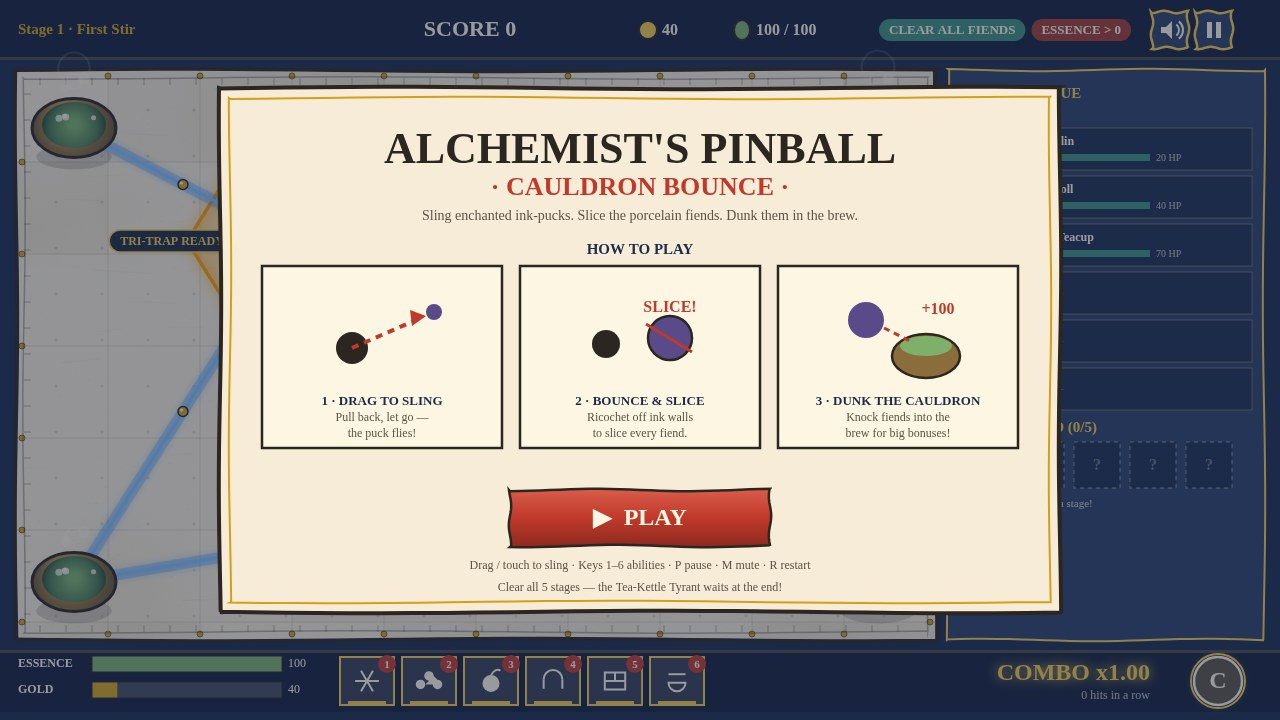
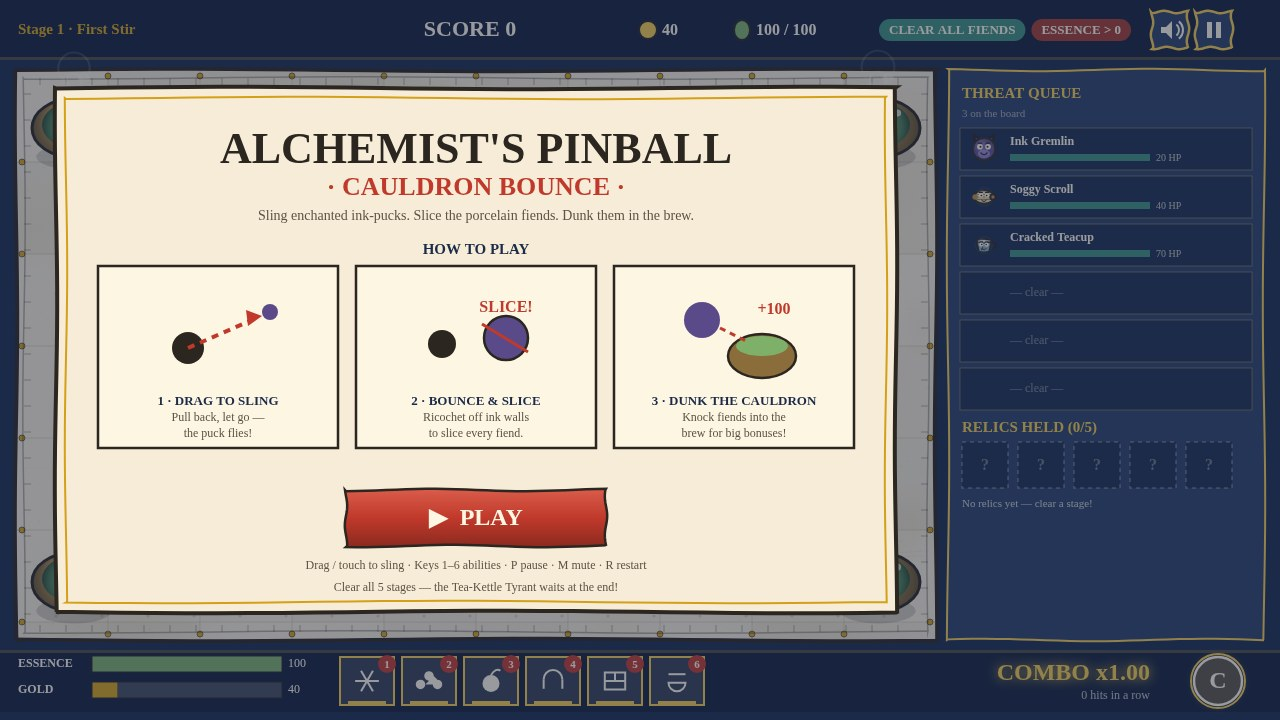
Final micro-fix: badges render last (z-index) + modals constrained to board region
- zones.js: new drawBadges() draws all six dark-navy pill badges
  (3X BOUNCE!, SPLASH -42!, BOIL OVER!, TRI-TRAP READY!, 3X RICOCHET,
  95% TAUT) after enemies, pucks, particles, flashes, floaters and
  callouts, so no sprite can ever overlap or clip badge text.
  drawZones/drawWeb no longer draw badges (positions unchanged).
- render.js: new modalBox() centers Title/Draft/Victory/Defeat modals
  on the board region only (cx=476) and caps width so every edge stays
  inside the board with a 24px margin — no modal overlaps the sidebar
  anymore (title right edge 896 vs sidebar at 948).
- Re-captured all 4 screenshots; full Playwright play-through passed
  with zero console/page errors and zero external requests.

Changed region(s): [[0.0312, 0.0917, 0.8438, 0.8556], [0.4375, 0.3361, 0.5312, 0.3972]]

diff --git a/game/src/render.js b/game/src/render.js
@@ -5,7 +5,7 @@
 import { BOARD, BOTTOM, COLORS, HOTBAR, SIDE, TOP, VIEW } from './config.js';
 import { drawEnemy, drawPortrait } from './enemies.js';
 import { drawRelicIcon } from './relics.js';
-import { drawCallouts, drawCauldrons, drawDecals, drawFlashes, drawFloaters, drawParticles, drawWalls, drawWeb, drawZones } from './zones.js';
+import { drawBadges, drawCallouts, drawCauldrons, drawDecals, drawFlashes, drawFloaters, drawParticles, drawWalls, drawWeb, drawZones } from './zones.js';
 import { drawPuck } from './puck.js';
 
 let parchmentCache = null;
@@ -370,6 +370,9 @@ function drawBoard(ctx, S) {
   drawFlashes(ctx, S.flashes);
   drawFloaters(ctx, S.floaters);
   drawCallouts(ctx, S.callouts);
+  // Pill badges LAST among board-layer elements: after enemies, pucks,
+  // particles, flashes, floaters and callouts, so no sprite ever clips a badge.
+  drawBadges(ctx, S);
   // Banner instruction bar: a real in-game UI strip along the bottom of the board.
   if (S.screen === 'play') {
     const bw = 720;
@@ -742,12 +745,25 @@ function dimBoard(ctx) {
   ctx.fillRect(0, 0, VIEW.w, VIEW.h);
 }
 
+// Modal geometry: every modal overlay is centered on the BOARD region only
+// (never the viewport) and its width is capped so both edges stay inside the
+// board with a 24px margin — its right edge never reaches the sidebar's left
+// edge (SIDE.x). Returns { cx, x, w } for a requested width; widths that
+// already fit are kept unchanged.
+function modalBox(w) {
+  const cx = BOARD.x + BOARD.w / 2;
+  const maxW = BOARD.w - 2 * 24;
+  const mw = Math.min(w, maxW);
+  return { cx, x: cx - mw / 2, w: mw };
+}
+
 function drawTitle(ctx, S) {
   dimBoard(ctx);
-  // Centered on the VIEWPORT (not the board) with a guaranteed side margin,
-  // and every title line is fit-measured so nothing can ever clip an edge.
-  const cx = VIEW.w / 2;
-  const card = { x: cx - 420, y: 88, w: 840, h: 524 };
+  // Centered on the BOARD region (never the viewport) with a guaranteed side
+  // margin, and every title line is fit-measured so nothing can ever clip an
+  // edge or overlap the sidebar.
+  const { cx, x: cardX, w: cardW } = modalBox(840);
+  const card = { x: cardX, y: 88, w: cardW, h: 524 };
   ctx.fillStyle = COLORS.parchment;
   wobblyRect(ctx, card.x, card.y, card.w, card.h, 8, 9.1);
   ctx.fill();
@@ -889,11 +905,12 @@ function drawComicPanel(ctx, i, cx, cy) {
 
 function drawDraft(ctx, S) {
   dimBoard(ctx);
-  // Centered on the VIEWPORT with fit-measured titles: nothing clips an edge.
-  const cx = VIEW.w / 2;
+  // Centered on the BOARD region with fit-measured titles: nothing clips an
+  // edge or overlaps the sidebar. All 3 cards + Reroll fit inside the board.
+  const cx = BOARD.x + BOARD.w / 2;
   ctx.textAlign = 'center';
   ctx.fillStyle = '#fdf6e3';
-  ctx.font = fitFont(ctx, 'CHOOSE A RELIC — PICK 1 OF 3', VIEW.w - 96, 30, true);
+  ctx.font = fitFont(ctx, 'CHOOSE A RELIC — PICK 1 OF 3', BOARD.w - 48, 30, true);
   ctx.fillText('CHOOSE A RELIC — PICK 1 OF 3', cx, 128);
   ctx.fillStyle = '#f2c94c';
   ctx.font = font(15, false);
@@ -995,8 +1012,8 @@ function wrapText(ctx, text, cx, y, maxW, lh) {
 
 function drawVictory(ctx, S) {
   dimBoard(ctx);
-  const cx = VIEW.w / 2;
-  const card = { x: cx - 360, y: 96, w: 720, h: 520 };
+  const { cx, x: cardX, w: cardW } = modalBox(720);
+  const card = { x: cardX, y: 96, w: cardW, h: 520 };
   ctx.fillStyle = COLORS.parchment;
   wobblyRect(ctx, card.x, card.y, card.w, card.h, 8, 6.6);
   ctx.fill();
@@ -1057,8 +1074,8 @@ function drawVictory(ctx, S) {
 
 function drawDefeat(ctx, S) {
   dimBoard(ctx);
-  const cx = VIEW.w / 2;
-  const card = { x: cx - 330, y: 150, w: 660, h: 380 };
+  const { cx, x: cardX, w: cardW } = modalBox(660);
+  const card = { x: cardX, y: 150, w: cardW, h: 380 };
   ctx.fillStyle = COLORS.parchment;
   wobblyRect(ctx, card.x, card.y, card.w, card.h, 8, 3.3);
   ctx.fill();

diff --git a/game/src/zones.js b/game/src/zones.js
@@ -130,19 +130,44 @@ export function drawZones(ctx, S) {
     ctx.stroke();
     ctx.restore();
     for (const v of verts) rivet(ctx, v.x, v.y);
-    // Zone label as a pill badge above the polygon, pushed clear of the boss.
-    const lp = badgeSpot(cx, cy - z.r - 16, S.boss ? { x: S.boss.x, y: S.boss.y, r: S.boss.r + 52 } : null);
+  }
+}
+
+// Pill badges, drawn LAST among board-layer elements — after enemies, pucks,
+// particles, flashes, floaters and callouts — so no sprite or effect can ever
+// overlap or clip a badge's text. Positions are identical to before; only the
+// draw order changed. Called from render.js drawBoard, never from drawZones
+// or drawWeb.
+export function drawBadges(ctx, S) {
+  const avoid = S.boss ? { x: S.boss.x, y: S.boss.y, r: S.boss.r + 52 } : null;
+  // Zone labels above each polygon (e.g. '3X BOUNCE!' on the amber zone).
+  for (let zi = 0; zi < ZONES.length; zi++) {
+    const z = ZONES[zi];
+    const cx = BOARD.x + z.cx * BOARD.w;
+    const cy = BOARD.y + z.cy * BOARD.h;
+    const lp = badgeSpot(cx, cy - z.r - 16, avoid);
     pillBadge(ctx, lp.x, lp.y, z.label, z.id === 'cyan' ? '#8fc4ff' : '#f2c94c');
   }
+  // Web badges pinned onto the lines and edges.
+  // TRI-TRAP READY! sits on the amber zone's quiet left edge, where live
+  // hit callouts almost never land, so the two texts cannot print over each other.
+  const pts = ZONES.map((z) => ({ x: BOARD.x + z.cx * BOARD.w, y: BOARD.y + z.cy * BOARD.h }));
+  const mid = (a, b) => ({ x: (a.x + b.x) / 2, y: (a.y + b.y) / 2 });
+  const eAB = badgeSpot(pts[0].x - 118, pts[0].y, avoid);
+  pillBadge(ctx, eAB.x, eAB.y, 'TRI-TRAP READY!', '#f2c94c');
+  const eBC = badgeSpot(mid(pts[1], pts[2]).x, mid(pts[1], pts[2]).y, avoid);
+  pillBadge(ctx, eBC.x, eBC.y, '3X RICOCHET', '#f2c94c');
+  const webMid = badgeSpot((pts[1].x + S.cauldrons[1].x) / 2, (pts[1].y + S.cauldrons[1].y) / 2, avoid);
+  pillBadge(ctx, webMid.x, webMid.y, '95% TAUT', '#8fc4ff');
 }
 
 // Luminous tether fields: a saturated amber triangle joining the three combo
 // zones, thick glowing cobalt tension beams from each zone to its two nearest
-// cauldrons, anchor rivets at every vertex, and high-contrast pill badges
-// pinned onto the lines. Drawn under the pieces, above the parchment.
+// cauldrons, anchor rivets at every vertex. The pill badges pinned onto the
+// lines are drawn separately by drawBadges, after all pieces, so no enemy
+// can ever overlap a badge. Drawn under the pieces, above the parchment.
 export function drawWeb(ctx, S) {
   const pts = ZONES.map((z) => ({ x: BOARD.x + z.cx * BOARD.w, y: BOARD.y + z.cy * BOARD.h }));
-  const avoid = S.boss ? { x: S.boss.x, y: S.boss.y, r: S.boss.r + 52 } : null;
   ctx.save();
   // Amber triangle field: rich saturated fill, thick glowing border, rivets.
   ctx.fillStyle = 'rgba(255,165,0,0.32)';
@@ -188,16 +213,6 @@ export function drawWeb(ctx, S) {
       rivet(ctx, mx, my);
     }
   }
-  // Pill badges pinned onto the lines and edges, pushed clear of the boss.
-  // TRI-TRAP READY! sits on the amber zone's quiet left edge, where live
-  // hit callouts almost never land, so the two texts cannot print over each other.
-  const mid = (a, b) => ({ x: (a.x + b.x) / 2, y: (a.y + b.y) / 2 });
-  const eAB = badgeSpot(pts[0].x - 118, pts[0].y, avoid);
-  pillBadge(ctx, eAB.x, eAB.y, 'TRI-TRAP READY!', '#f2c94c');
-  const eBC = badgeSpot(mid(pts[1], pts[2]).x, mid(pts[1], pts[2]).y, avoid);
-  pillBadge(ctx, eBC.x, eBC.y, '3X RICOCHET', '#f2c94c');
-  const webMid = badgeSpot((pts[1].x + S.cauldrons[1].x) / 2, (pts[1].y + S.cauldrons[1].y) / 2, avoid);
-  pillBadge(ctx, webMid.x, webMid.y, '95% TAUT', '#8fc4ff');
 }
 
 export function drawWalls(ctx, walls) {
